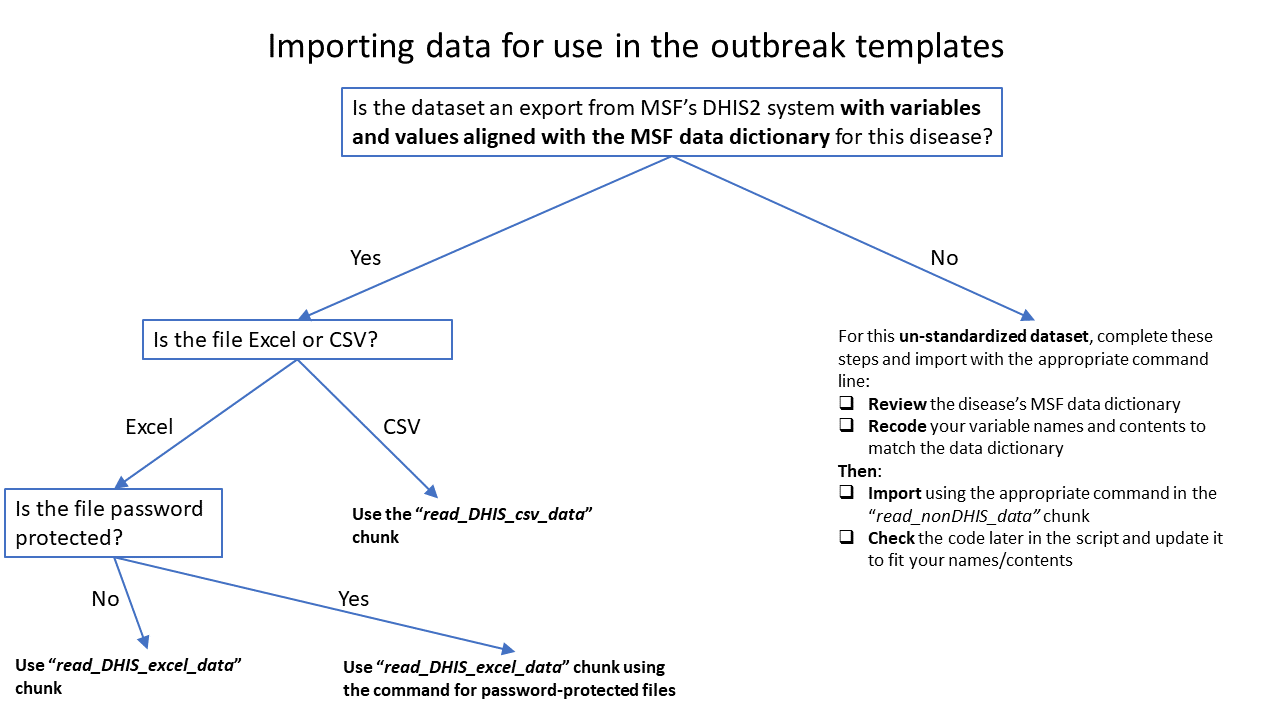
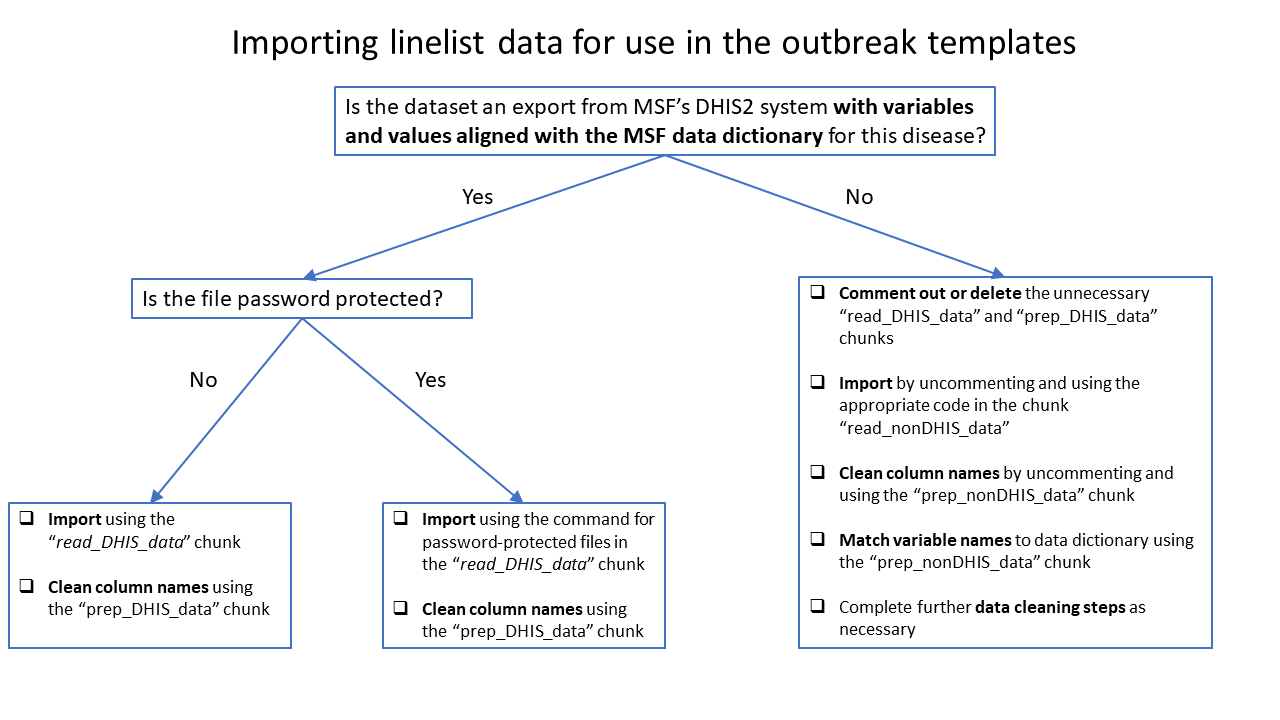
Updates to text and images in Import

diff --git a/content/training/Walk-through/Import.html b/content/training/Walk-through/Import.html
@@ -1,21 +1,22 @@
 ---
 date: "2019-08-21T09:36:04+02:00"
-title: Import
+title: Import linelist
+menuTitle: Import linelist
 weight: 7
 ---
 
 
 
-<p><strong>In this template section you choose the appropriate code chunk to import your dataset.</strong></p>
-<p>For this exercise our dataset is a <strong>non-standardized Excel file</strong>, so we use the <code>read_nonDHIS_data</code> code chunk. <strong>The linelist Excel file can be downloaded from the case study overview page.</strong></p>
-<p><img src="/images/AJS_Data_Import.png" alt="Data import options snip", width = "75%"></p>
+<p><strong>In this template section you choose the appropriate code chunk to import your linelist dataset.</strong> The linelist Excel file can be downloaded from the case study overview page.</p>
+<p>For this exercise our linelist dataset is a <strong>non-DHIS file</strong>, so to import we use the <code>read_nonDHIS_data</code> code chunk.</p>
+<p><strong>Comment out (using #) or delete the <code>read_fake_data</code>, <code>read_DHIS_data</code>, and <code>prep_DHIS_data</code> chunks</strong>, as they are not necessary and will cause errors.</p>
+<p><img src="/images/AJS_Data_Import.png" alt="Data import options snip", width = "100%"></p>
 <p><strong>Importing the dataset into R</strong></p>
 <p>Use the <code>import()</code> function of the <strong>rio</strong> package to import an Excel file that is not password protected. The <code>which=</code> argument of <code>import()</code> specifies that the sheet “linelist” should be imported.</p>
 <p>The <code>import()</code> function is wrapped around the <code>here()</code> function. The <code>here()</code> function makes it easy for R to locate files on your computer. It is best to save the dataset within an R project, and to provide <code>here()</code> with any R project subfolder names. <strong>You can read more about <code>import()</code> and <code>here()</code> functions in the importing data R Basics page.</strong></p>
-<p>Either delete or comment out (#) all lines of code in the other data import chunks (<code>read_fake_data</code> and <code>read_DHIS_excel_data</code>).</p>
 <pre class="r"><code>## Read data ------------------------------------
 # Excel file
 # to read in a specific sheet use &quot;which&quot;
-linelist_raw &lt;- rio::import(here(&quot;AJS_AmTiman.xlsx&quot;), which = &quot;linelist&quot;)</code></pre>
-<p>There should now be a dataframe object named <code>linelist_raw</code> in your environment pane, consisting of 1447 observations and 122 variables.</p>
+linelist_raw &lt;- rio::import(here::here(&quot;AJS_AmTiman.xlsx&quot;), which = &quot;linelist&quot;)</code></pre>
+<p>A successfull import should result in a dataframe object named <code>linelist_raw</code> in your RStudio Environment pane, consisting of 1447 observations and 122 variables.</p>
 <p><img src="/images/linelist_raw_imported.png" alt="Environment snip with linelist_raw", width = "50%"></p>
